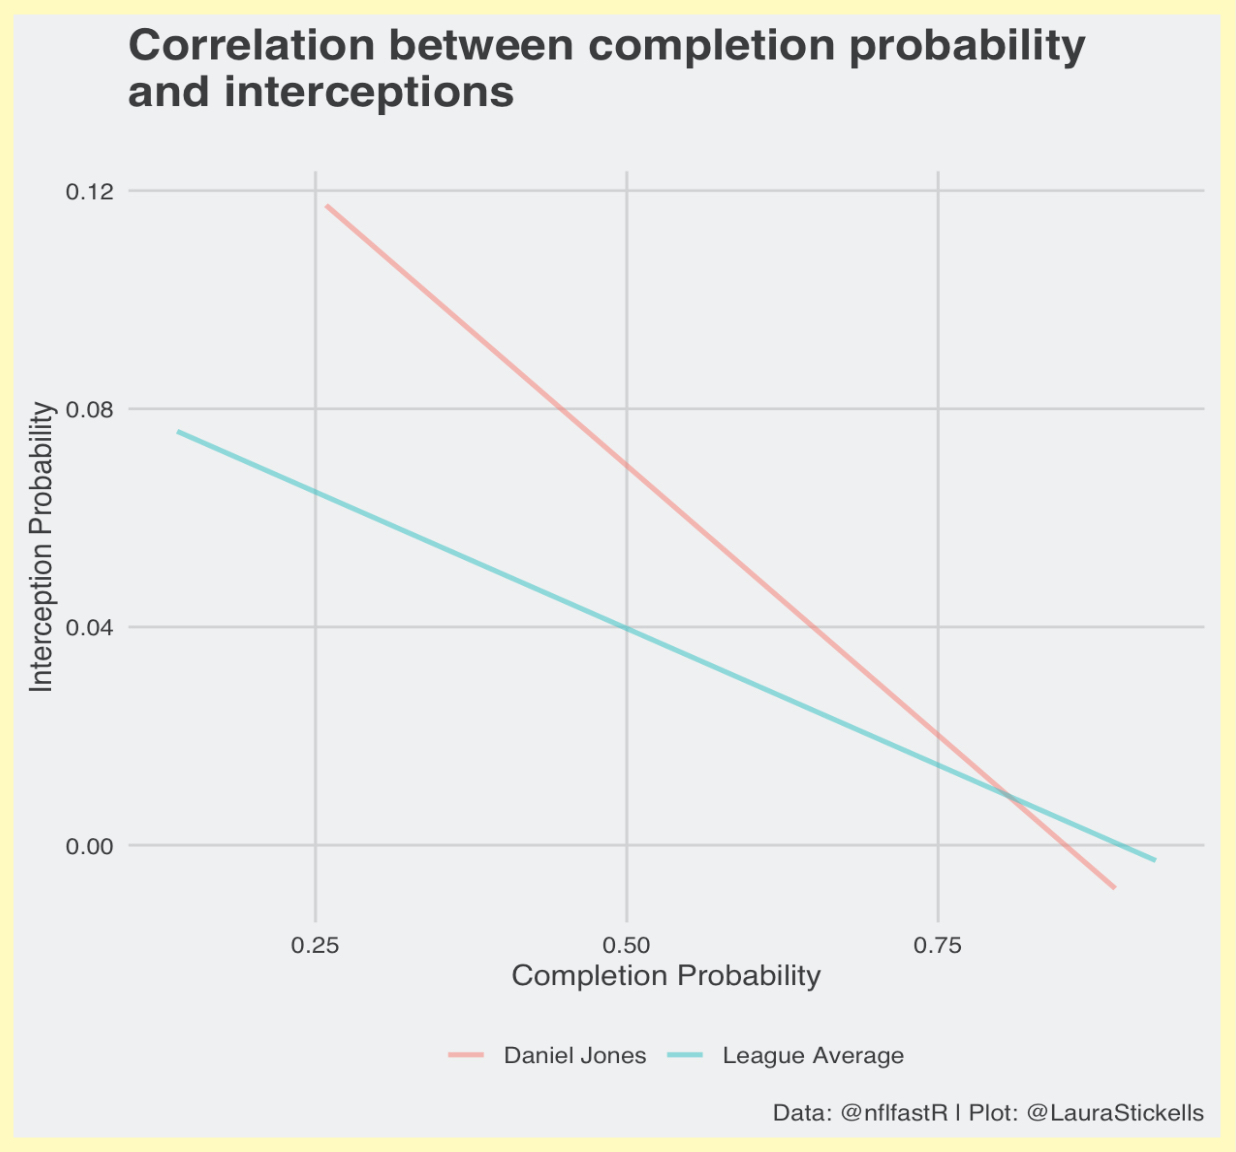
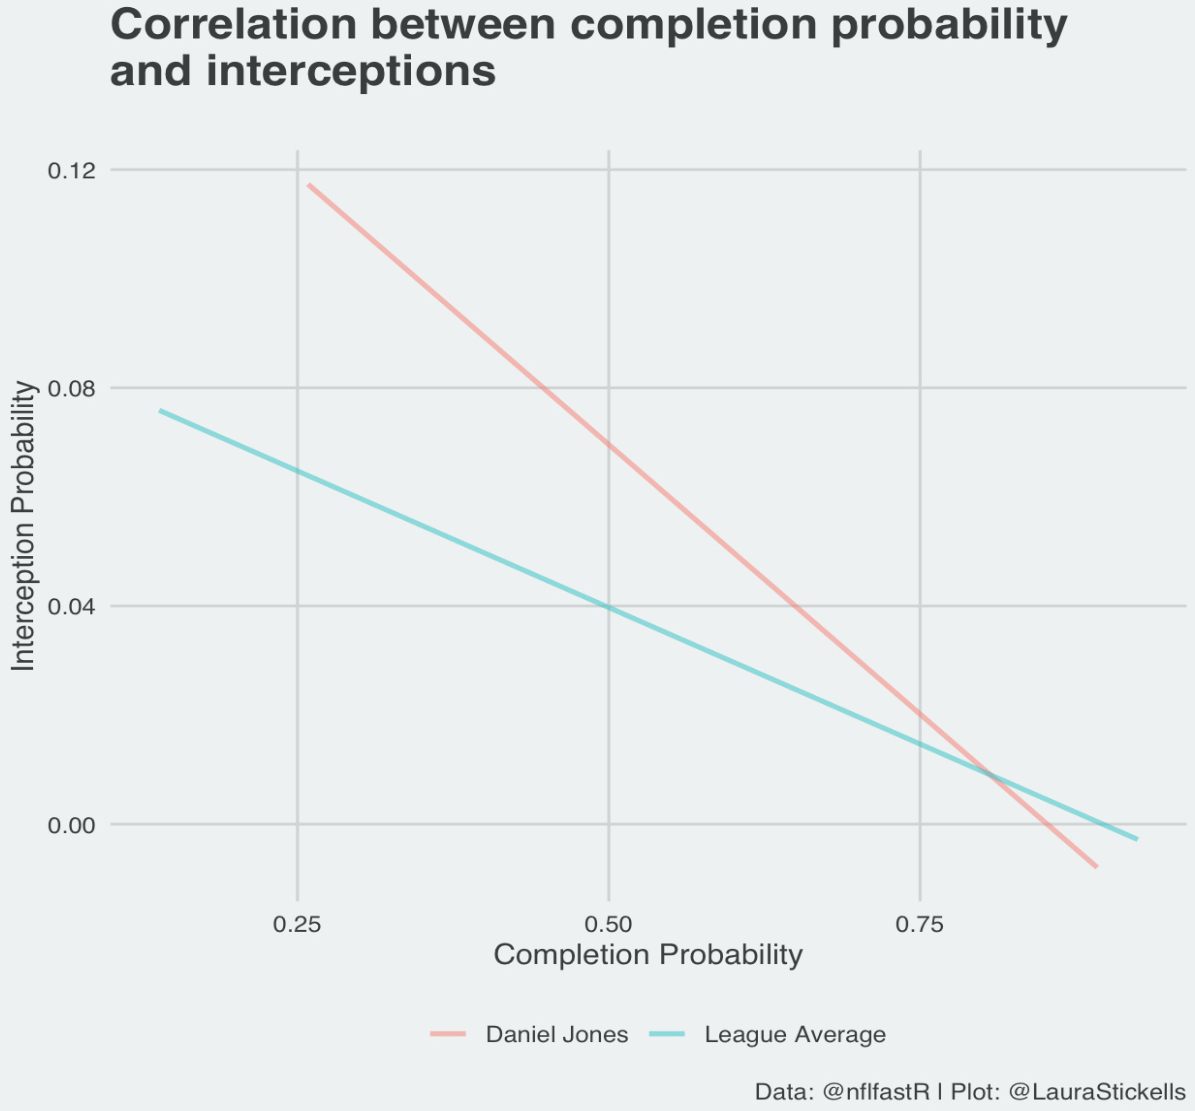
switch r-shiny to image

diff --git a/analytics-blog/daniel-jones-doesnt-throw-many-risky-passes-but-when-he-does-hes-very-unlikely-to-complete-them.html b/analytics-blog/daniel-jones-doesnt-throw-many-risky-passes-but-when-he-does-hes-very-unlikely-to-complete-them.html
@@ -83,9 +83,9 @@
 
 					<p>Just to be sure I checked my hypothesis by building a linear model, using Jones’ completion probability to predict his interceptions. And yes, there is a statistically significant negative correlation (-0.20) between the variables. I also built a model using all 2020 passers for comparison purposes.  When graphed together, it’s clear Jones is more likely to throw an interception on a difficult pass than an average quarterback.</p>
 
-					<iframe id="example1" class="left" src="https://laurastickells.shinyapps.io/cpxinterceptionsweek8/" style="padding:10px 0;border:4px solid #ffffcc;" width="400px" height= "400px" frameborder="4px" >
-						Your browser doesn't support iframes
-					</iframe>
+					<figure class="left" style="height:450px;width:500px;overflow:scroll;padding:10px 0;border:4px solid #ffffcc;">
+						<img src="images/DanielJones2.jpg" alt="" width="480">
+					</figure>
 
 					<p>Looking at these numbers, it seems that Jones isn’t typically making riskier passes than the rest of the league. But when he does attempt them you notice because they often don’t end well.</p>
 
